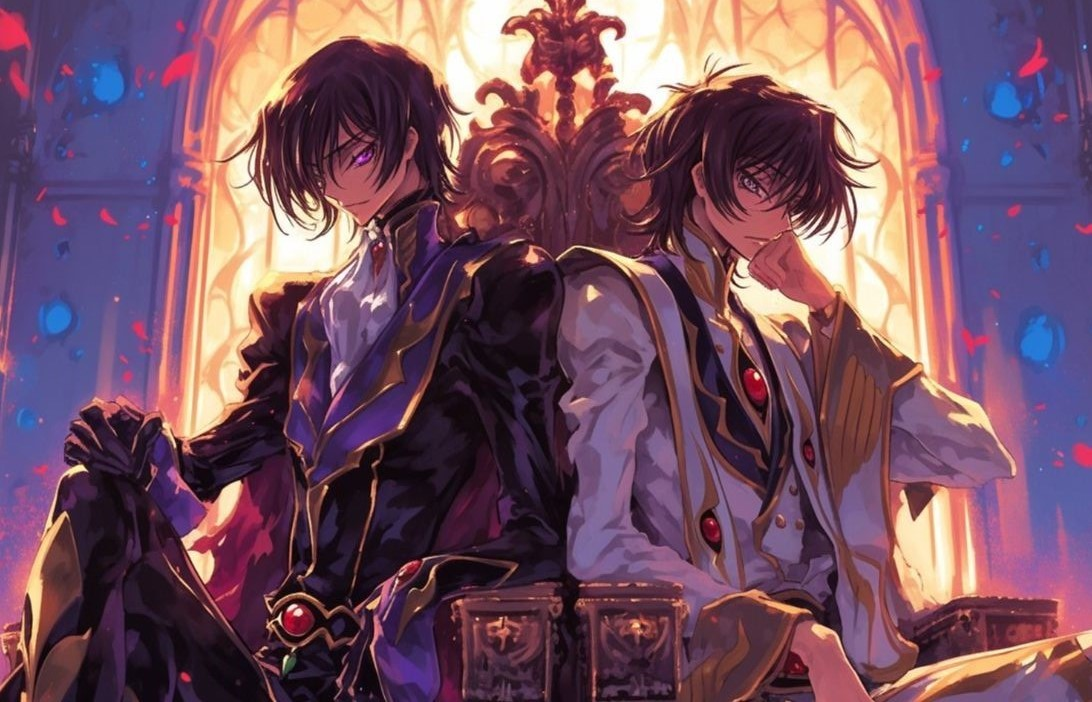
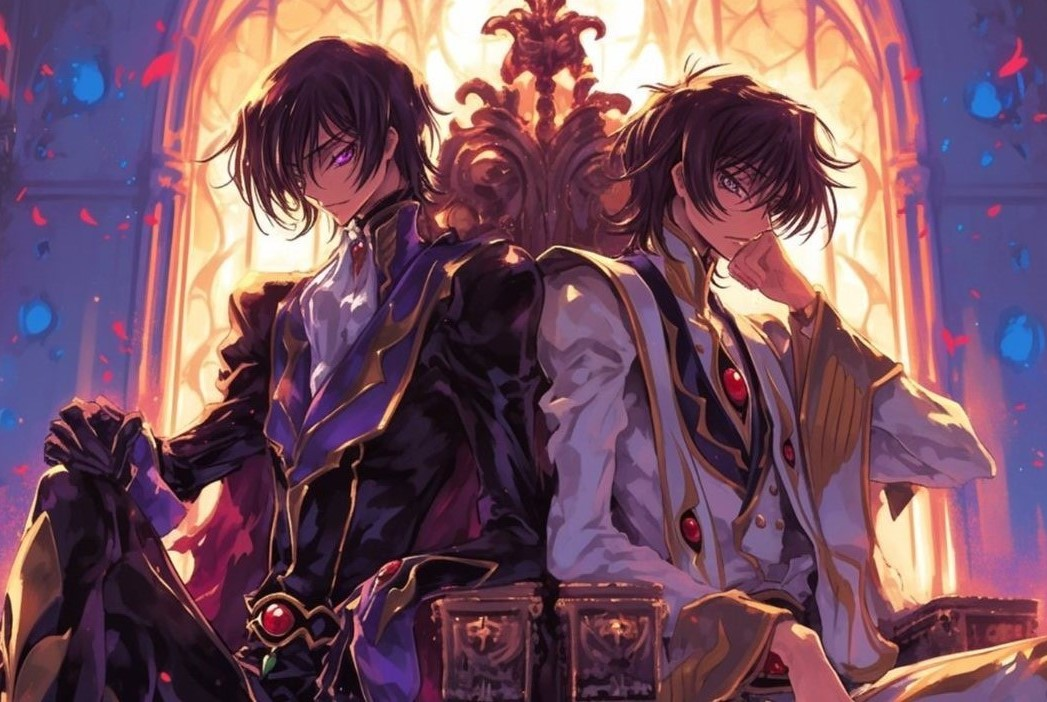
peaufinage

diff --git a/HoF/others/others.html b/HoF/others/others.html
@@ -121,58 +121,58 @@
               <h4 class="pol-matesie">What a beauiful Duwang!</h4>
 
               <div id="carousel1st" class="carousel slide carousel-fade bigScreen">
-               <div class="carousel-inner">
+               <div class="carousel-inner carouselOthersE">
 
-                  <div class="carousel-item active ">
+                  <div class="carousel-item ">
                      <img src="Jojo/jojo1.jpg" class="d-block w-100 carouselOthers" alt="...">
                   </div>
 
-                  <div class="carousel-item">
+                  <div class="carousel-item ">
                      <img src="Jojo/jojo2.jpg" class="d-block w-100 carouselOthers" alt="...">
                   </div>
 
-                  <div class="carousel-item">
+                  <div class="carousel-item ">
                      <img src="Jojo/jojo3.jpg" class="d-block w-100 carouselOthers" alt="...">
                   </div>
 
-                  <div class="carousel-item">
+                  <div class="carousel-item ">
                      <img src="Jojo/jojo4.jpg" class="d-block w-100 carouselOthers" alt="...">
                   </div>
 
 
-                  <div class="carousel-item">
+                  <div class="carousel-item ">
                      <img src="Jojo/jojo5.jpg" class="d-block w-100 carouselOthers" alt="...">
                   </div>
 
 
-                  <div class="carousel-item">
+                  <div class="carousel-item ">
                      <img src="Jojo/jojo6.jpg" class="d-block w-100 carouselOthers" alt="...">
                   </div>
 
 
-                  <div class="carousel-item">
+                  <div class="carousel-item ">
                      <img src="Jojo/jojo7.jpg" class="d-block w-100 carouselOthers" alt="...">
                   </div>
 
 
-                  <div class="carousel-item">
+                  <div class="carousel-item ">
                     <img src="Jojo/jojo8.jpg" class="d-block w-100 carouselOthers" alt="...">
                   </div>
 
-                  <div class="carousel-item">
+                  <div class="carousel-item ">
                     <img src="Jojo/jojo9.jpg" class="d-block w-100 carouselOthers" alt="...">
                   </div>
 
-                  <div class="carousel-item">
+                  <div class="carousel-item ">
                     <img src="Jojo/jojo10.jpg" class="d-block w-100 carouselOthers" alt="...">
                   </div>
 
-                  <div class="carousel-item">
+                  <div class="carousel-item ">
                     <img src="Jojo/jojo11.jpg" class="d-block w-100 carouselOthers" alt="...">
                   </div>
 
 
-                  <div class="carousel-item">
+                  <div class="carousel-item ">
                     <img src="Jojo/jojo12.jpeg" class="d-block w-100 carouselOthers" alt="...">
                   </div>
 
@@ -182,7 +182,7 @@
                     <img src="Jojo/jojo13.jpg" class="d-block w-100 carouselOthers" alt="...">
                   </div>
 
-                  <div class="carousel-item ">
+                  <div class="carousel-item active">
                     <img src="Jojo/jojo14.png" class="d-block w-100 carouselOthers" alt="...">
                   </div>
 

diff --git a/assets/style-hof.css b/assets/style-hof.css
@@ -201,14 +201,14 @@ a{
 }
 
 .pepiteTxt .carousel .carousel-inner .carousel-item p {
-    font-size: 19px;
+    font-size: 14px;
     
 
 }
 
 .txtOthers {
     margin: 4%;
-    font-size: 27px;
+    font-size: 18px;
     border: solid 6px currentColor;
 }
 
@@ -256,8 +256,23 @@ a{
 }
 
 .carouselOthers {
-    height: 74vh;
-    width: 75vw;
+
+    width: 57.7vw;
+    max-width: 57.7vw;
+    min-width: 57.7vw; 
+    height: 80vh;
+    max-height: 80vh;
+    min-height: 80vh;
+}
+
+
+.carouselOthersE {
+    width: 60vw;
+    max-width: 60vw;
+    min-width: 60vw; 
+    height: 80vh;
+    max-height: 80vh;
+    min-height: 80vh;
 }
 
 /* Spécificités Carousel (classes déjà existantes) ---*/
@@ -291,10 +306,6 @@ a{
 
 .carousel-control-prev-icon:hover , .carousel-control-next-icon:hover {
  background-color: aqua;
-}
-
-.carousel-item p {
-    font-size: 20px;
 }
 
 

diff --git a/assets/style.css b/assets/style.css
@@ -167,7 +167,7 @@ align-items: center;
 
 
 .section a img {
-    width: 84%;
+    width: 80%;
     margin: 1%;
     box-shadow: 0.30rem 0.30rem 0 rgb(0, 0, 0);
 
